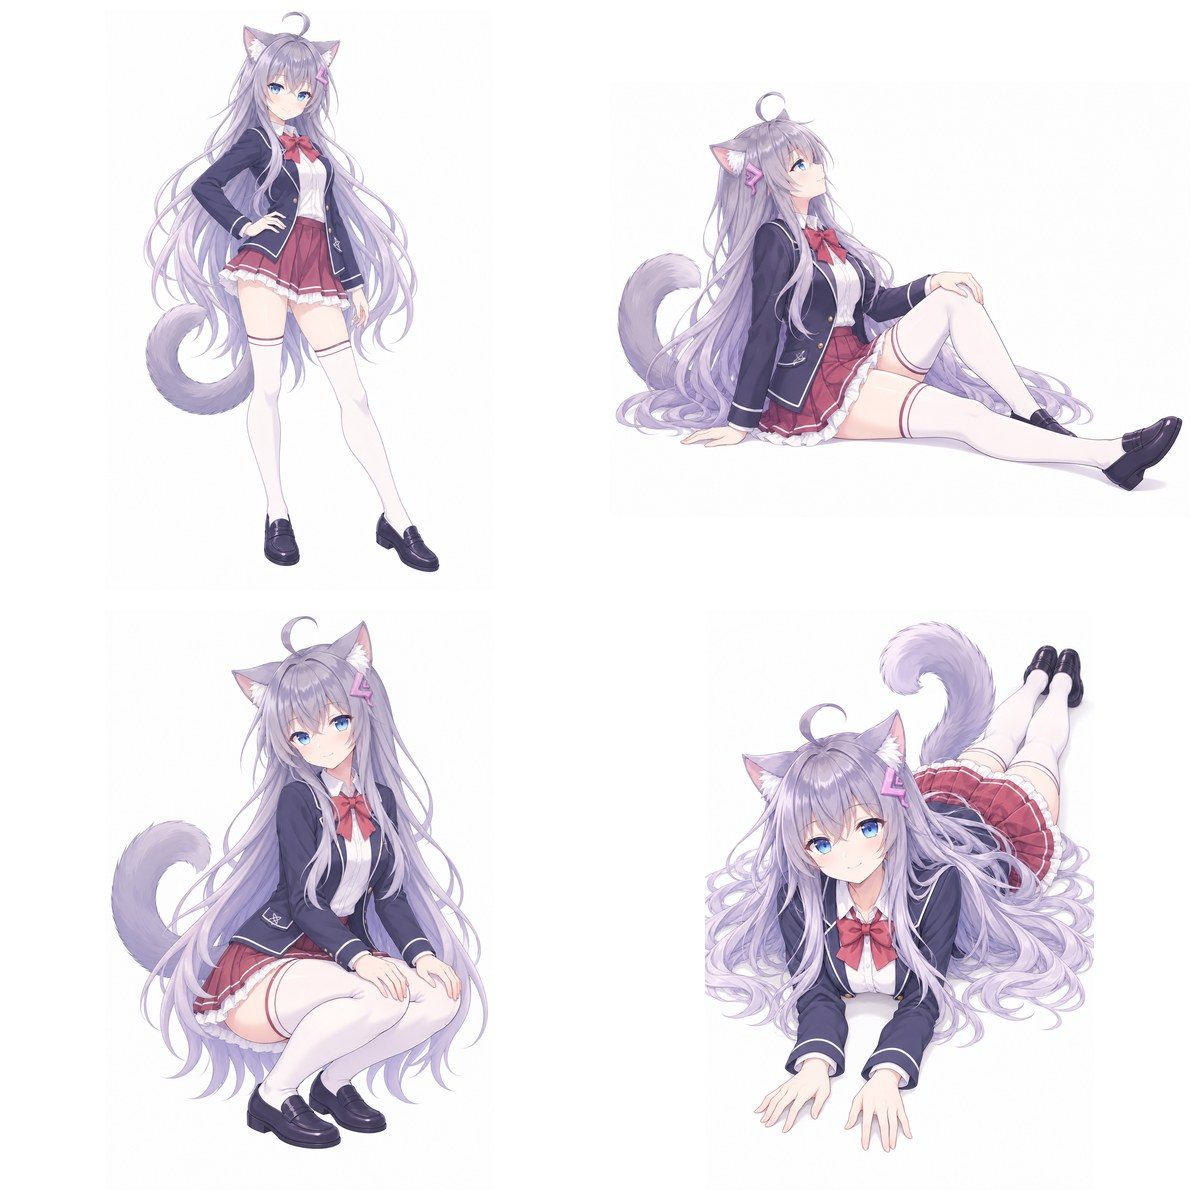
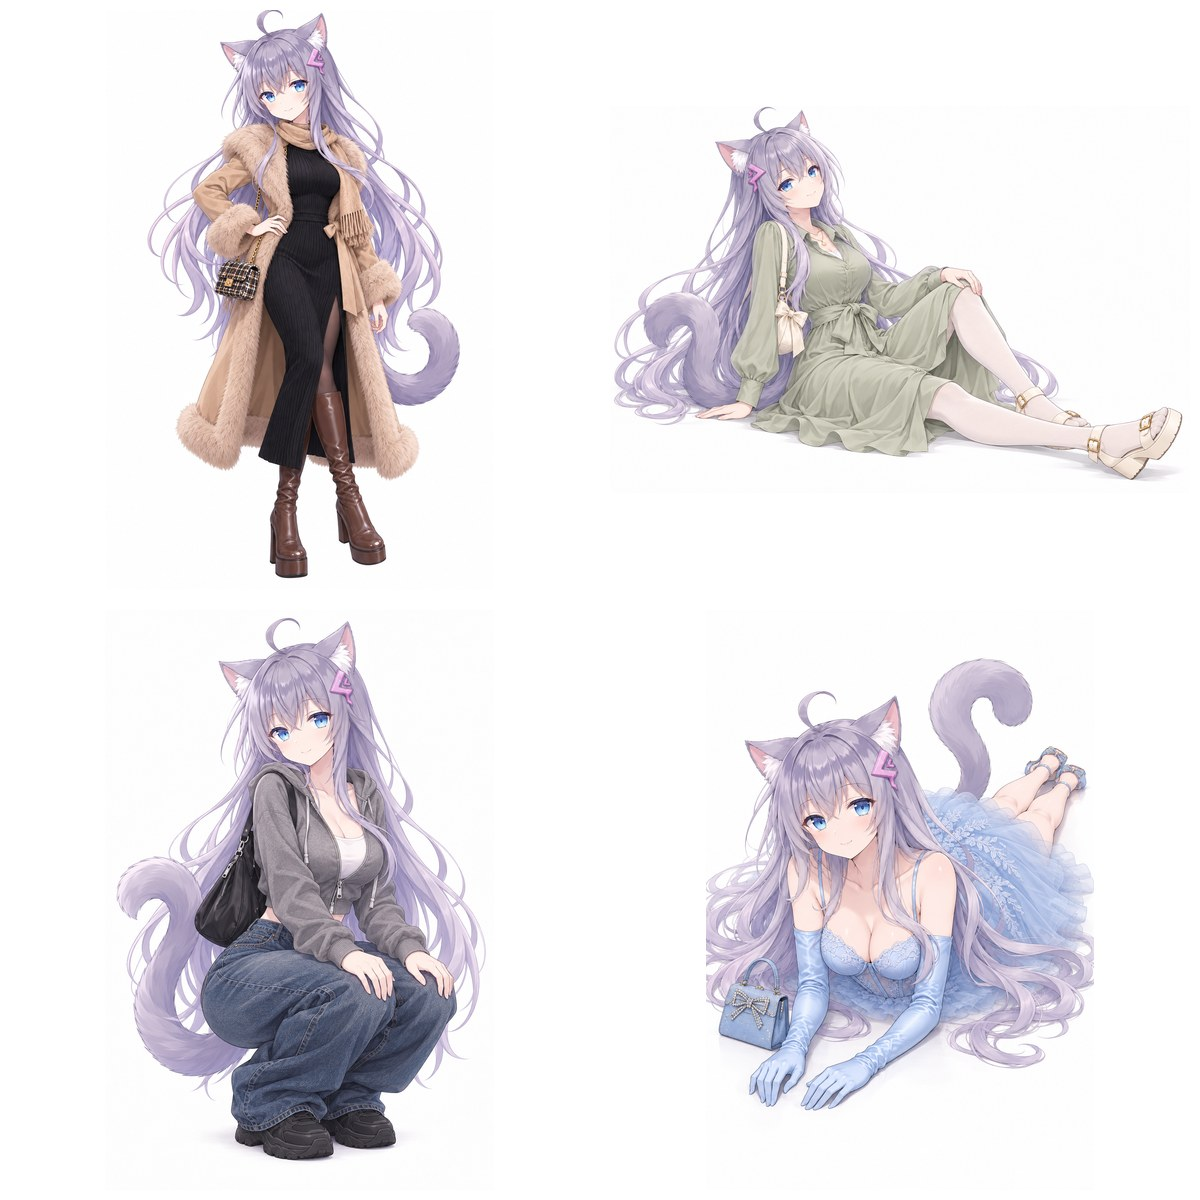
示例图换成四套不同服装
姿势 pose P015/P001/P061/P007，服装 costume WIN-0023/SPR-0008/SPR-0199/PTY-0007

Changed region(s): [[0.0925, 0.0, 0.4317, 0.9867], [0.5858, 0.5242, 0.925, 0.9558], [0.4933, 0.0617, 0.9867, 0.4317]]

diff --git a/README.md b/README.md
@@ -6,7 +6,7 @@
 
 ![demo](assets/demo.jpg)
 
-同一角色的四个姿势，姿势参考取自 `pose` 库（P015 / P001 / P061 / P007），由 GPT Image 生成。
+同一角色的四个姿势、四套服装：姿势取自 `pose` 库（P015 / P001 / P061 / P007），服装取自 `costume` 库（WIN-0023 / SPR-0008 / SPR-0199 / PTY-0007），由 GPT Image 生成。
 
 ## 安装
 
